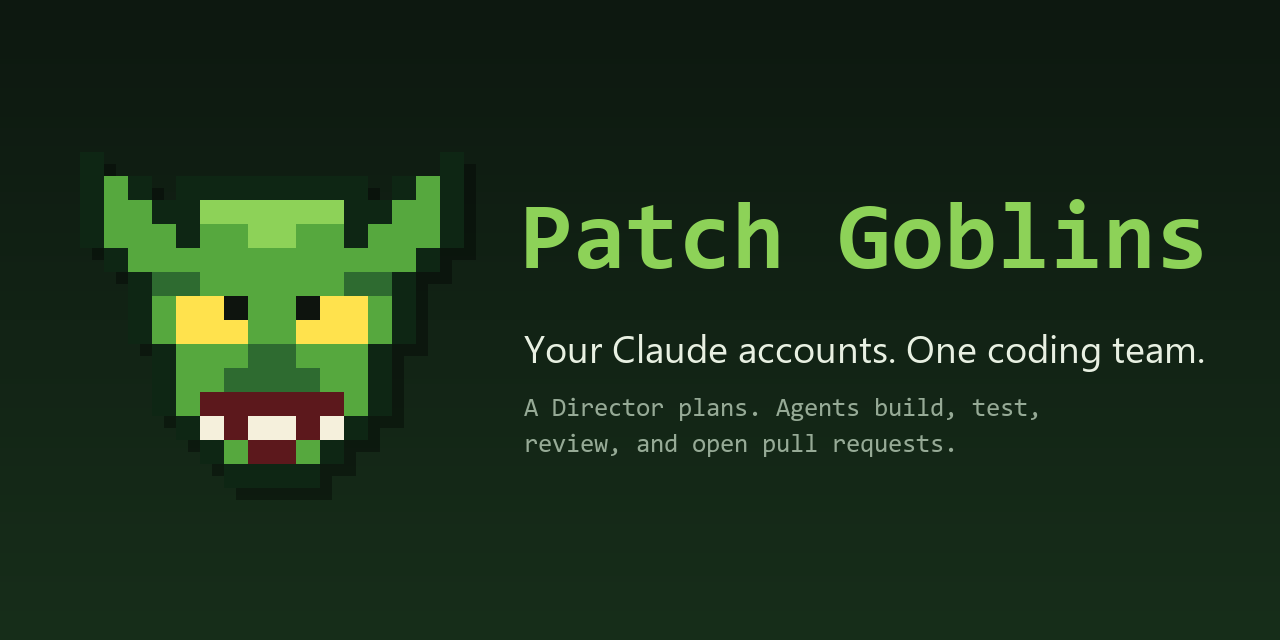
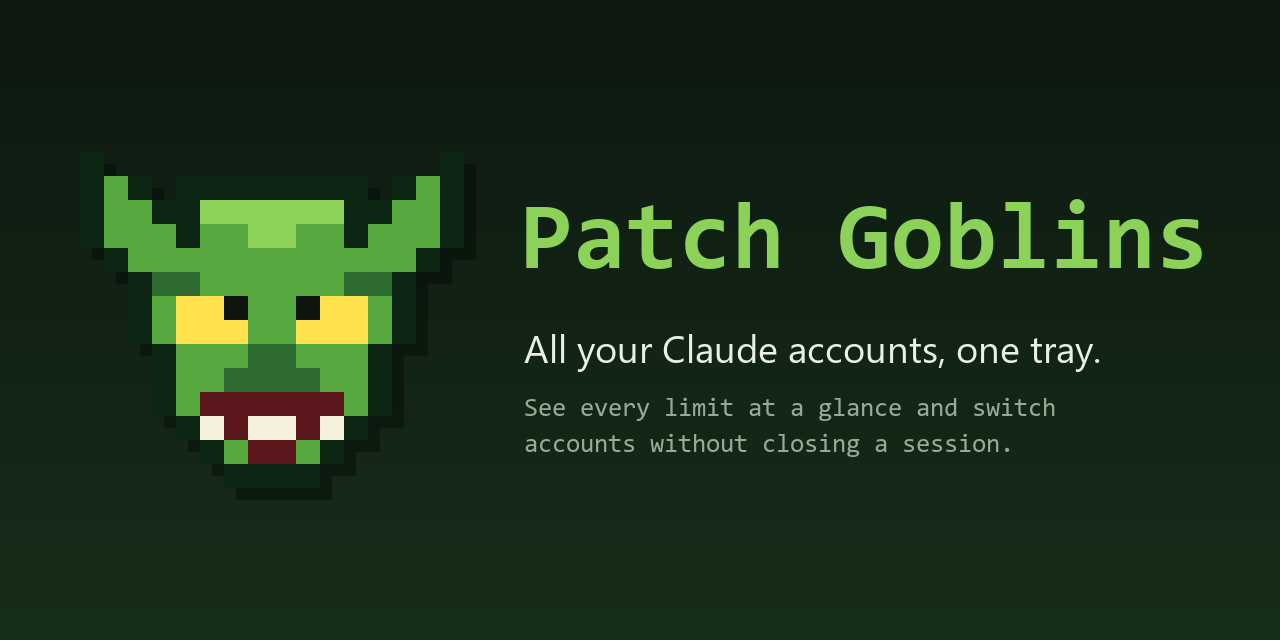
Drop the last agent-era leftovers from the fake engine and the social preview
The Auto-Prime tests only need the fake engine's prime request, so the
worker, Director and handoff emulation is gone. The social preview text no
longer describes a Director and agents.

Claude-Session: https://claude.ai/code/session_017sa7iiuyAiGQLbPfJu6d9f

Changed region(s): [[0.4062, 0.5312, 0.9375, 0.5938], [0.4062, 0.625, 0.8438, 0.6562], [0.4062, 0.6875, 0.7812, 0.7188]]

diff --git a/dock/tools/make-icon.py b/dock/tools/make-icon.py
@@ -100,9 +100,9 @@ def social(path):
     sub = font(["C:/Windows/Fonts/segoeui.ttf", "DejaVuSans.ttf"], 38)
     small = font(["C:/Windows/Fonts/consola.ttf", "DejaVuSansMono.ttf"], 26)
     d.text((520, 196), "Patch Goblins", font=title, fill=(141, 210, 88))
-    d.text((524, 322), "Your Claude accounts. One coding team.", font=sub, fill=(232, 240, 226))
-    d.text((524, 396), "A Director plans. Agents build, test,", font=small, fill=(150, 170, 150))
-    d.text((524, 432), "review, and open pull requests.", font=small, fill=(150, 170, 150))
+    d.text((524, 322), "All your Claude accounts, one tray.", font=sub, fill=(232, 240, 226))
+    d.text((524, 396), "See every limit at a glance and switch", font=small, fill=(150, 170, 150))
+    d.text((524, 432), "accounts without closing a session.", font=small, fill=(150, 170, 150))
     img.save(path, optimize=True)
 
 

diff --git a/src/claude_swap/stats_merge.py b/src/claude_swap/stats_merge.py
@@ -2,7 +2,7 @@
 
 ``/stats`` ("All time") reads ``~/.claude/stats-cache.json`` (finished UTC days, frozen once computed)
 plus a live scan of today's transcripts in ``~/.claude/projects``. Accounts that run through
-``cswap run`` (terminals, goblins, Auto-Prime, reopened windows) write their transcripts to
+``cswap run`` (terminals, Auto-Prime, reopened windows) write their transcripts to
 ``<backup>/sessions/<n>-<email>/projects`` instead, so the default ``/stats`` never sees them.
 
 This replays Claude Code's own aggregation (2.1.316, cache format 5) over those transcripts and adds
